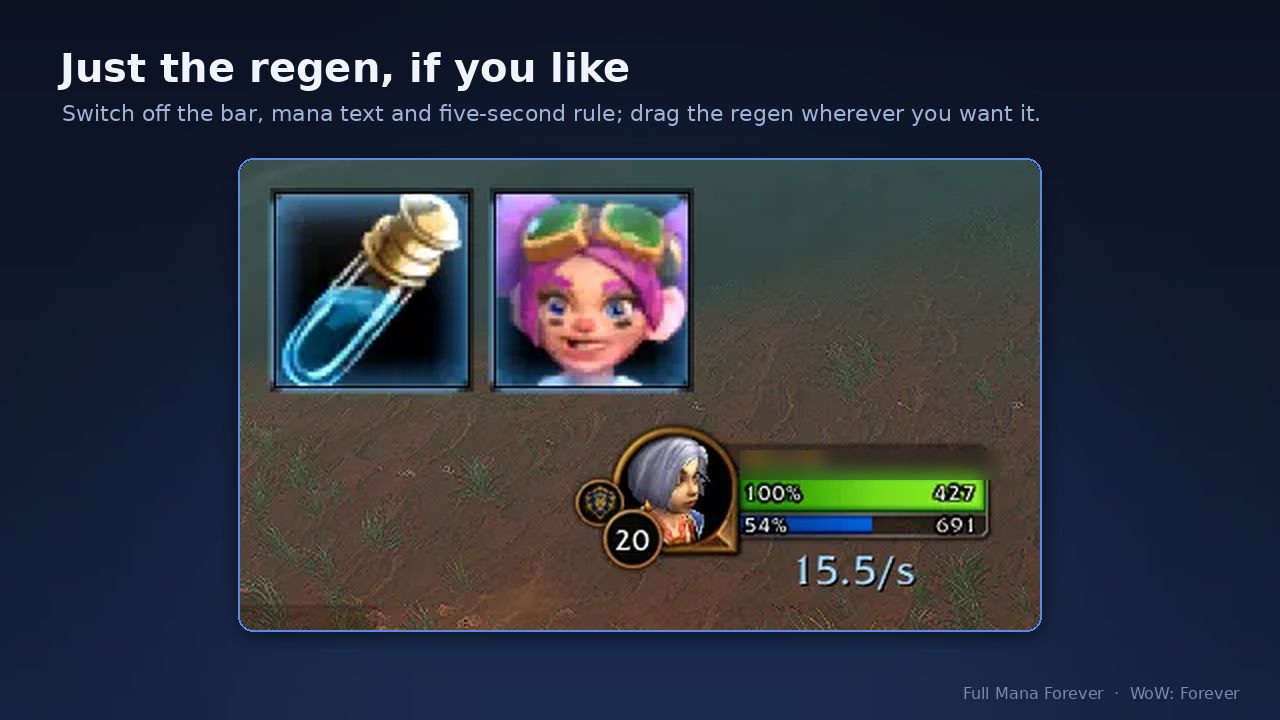
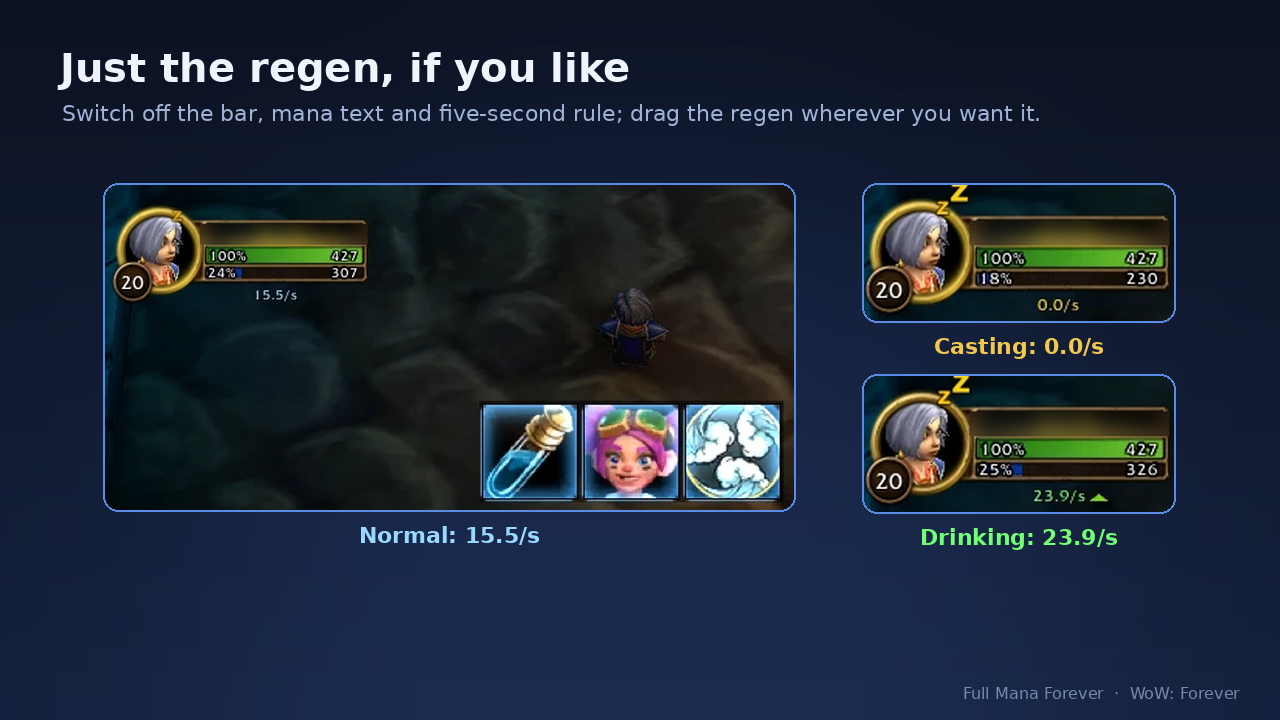
Gallery: Just the regen re-shot (normal, casting, drinking under the player frame)

diff --git a/tools/gallery.py b/tools/gallery.py
@@ -264,3 +264,37 @@ if __name__ == "__main__":
              "Every supported item and your class's mana spells: switch each on or off, see your level and what you carry.",
              [(crop("images/356.webp", (818, 88, 1440, 690), 0.78), "Potions: level and how many you carry"),
               (crop("images/364.webp", (690, 240, 1312, 842), 0.78), "Gear and your own mana spells")], top=150)
+    # ---- 0.8.11 (17 Oct 2026): just the regen under the game's player frame, icons below;
+    # bar, mana text and rule switched off. The player frame's name is blurred out.
+    if only("v11-12"):
+        def blurred(src, box, scale):
+            im = Image.open(BASE + src).convert("RGB")
+            name = (628, 485, 757, 501)  # name in the player frame
+            im.paste(im.crop(name).filter(ImageFilter.GaussianBlur(6)), name[:2])
+            im = im.crop(box)
+            return im.resize((int(im.width * scale), int(im.height * scale)), Image.LANCZOS)
+        bg = background()
+        d = ImageDraw.Draw(bg)
+        d.text((60, 44), "Just the regen, if you like", font=ImageFont.truetype(BOLD, 40), fill=WHITE)
+        d.text((62, 100), "Switch off the bar, mana text and five-second rule; drag the regen wherever you want it.",
+               font=ImageFont.truetype(REG, 22), fill=SUB)
+        cap = ImageFont.truetype(BOLD, 22)
+        big = blurred("images/375.webp", (555, 455, 1085, 705), 1.3)
+        small = [(blurred("images/376.webp", (560, 462, 760, 550), 1.55), "Casting: 0.0/s", GOLD),
+                 (blurred("images/377.webp", (560, 462, 760, 550), 1.55), "Drinking: 23.9/s", (115, 255, 115))]
+        x, y = (W - big.width - 70 - small[0][0].width) // 2, 185
+        panels = [(big, x, y, "Normal: 15.5/s", (153, 217, 255))]
+        sx = x + big.width + 70
+        sy = y
+        for im, c, col in small:
+            panels.append((im, sx, sy, c, col))
+            sy += im.height + 55
+        for im, px, py, c, col in panels:
+            bg.paste(im, (px, py), rounded(im))
+            d.rounded_rectangle((px - 2, py - 2, px + im.width + 1, py + im.height + 1), 15, outline=BLUE, width=2)
+            tw = d.textlength(c, font=cap)
+            d.text((px + (im.width - tw) / 2, py + im.height + 12), c, font=cap, fill=col)
+        foot = ImageFont.truetype(REG, 16)
+        t = "Full Mana Forever  ·  WoW: Forever"
+        d.text((W - 40 - d.textlength(t, font=foot), H - 36), t, font=foot, fill=(120, 136, 170))
+        bg.save(BASE + "gallery/out/12_just_regen.png", optimize=True)
